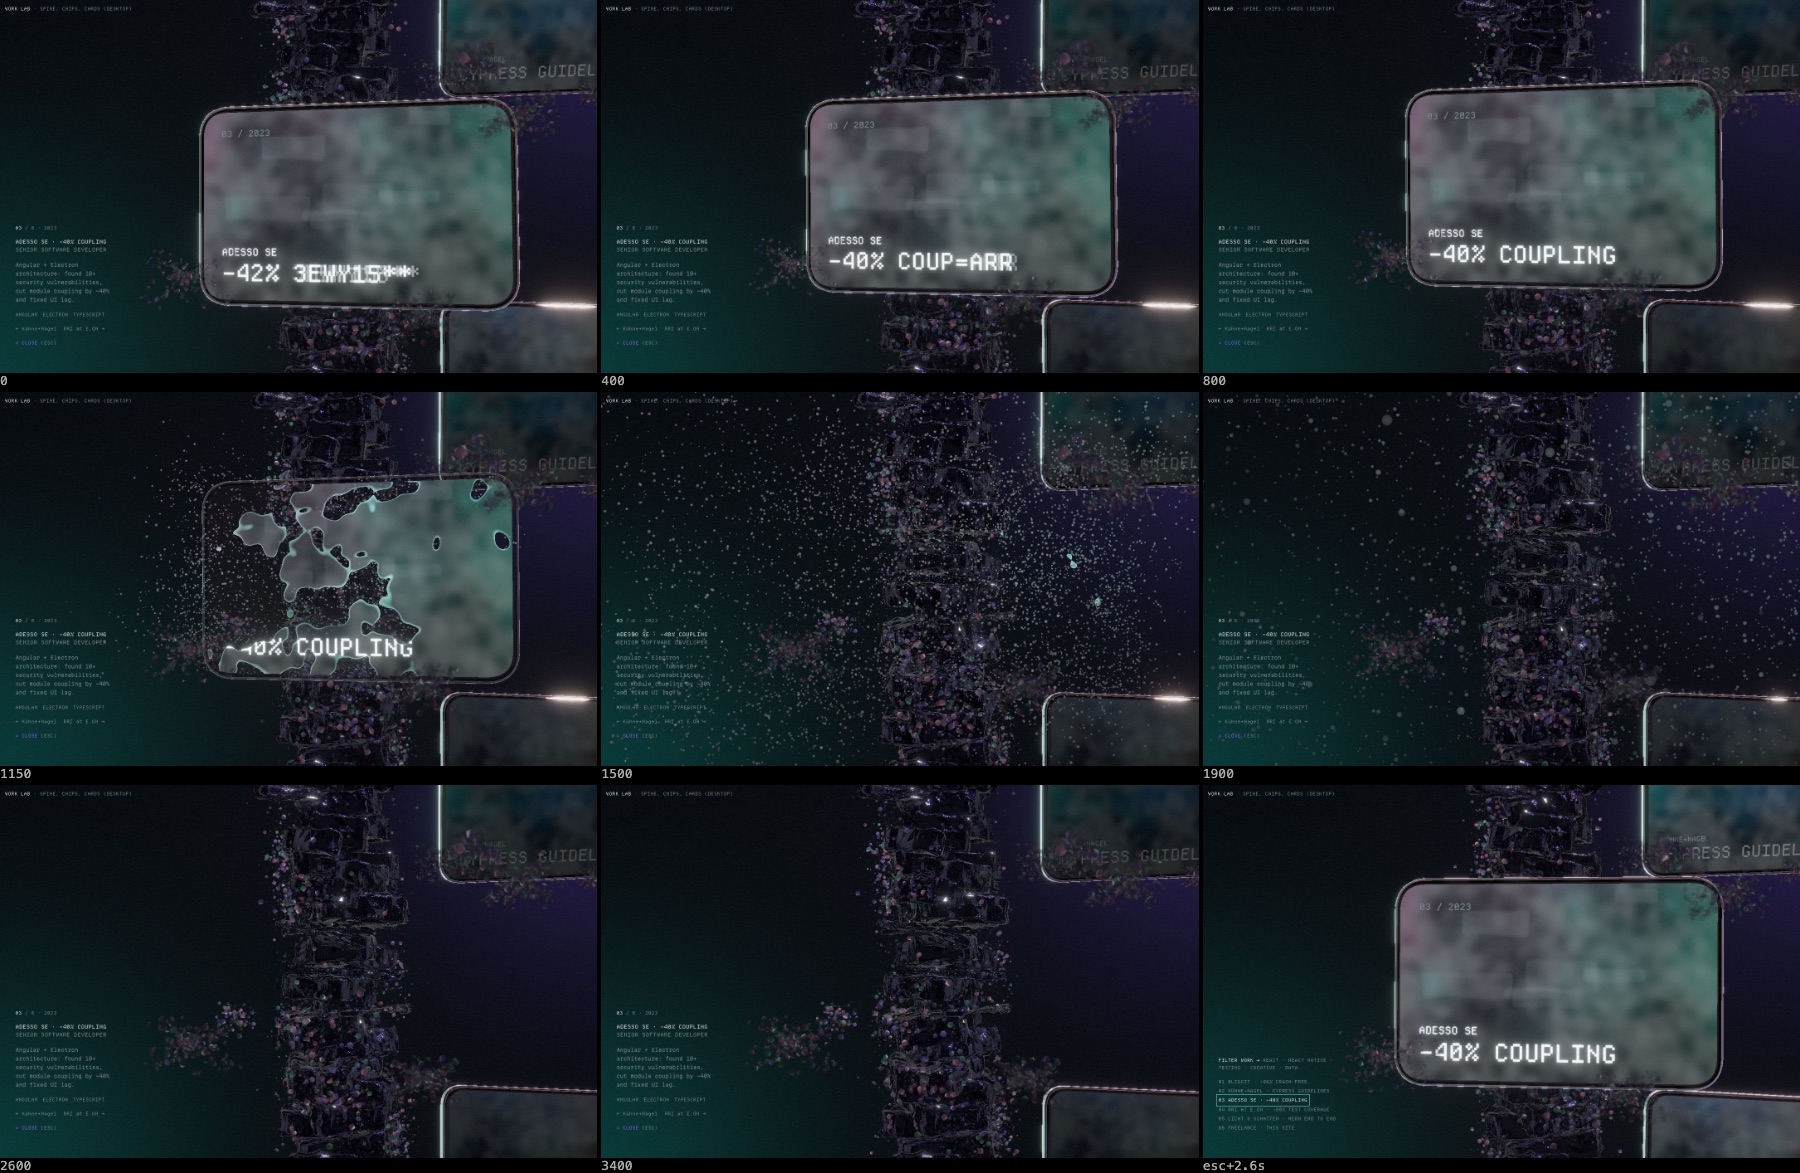
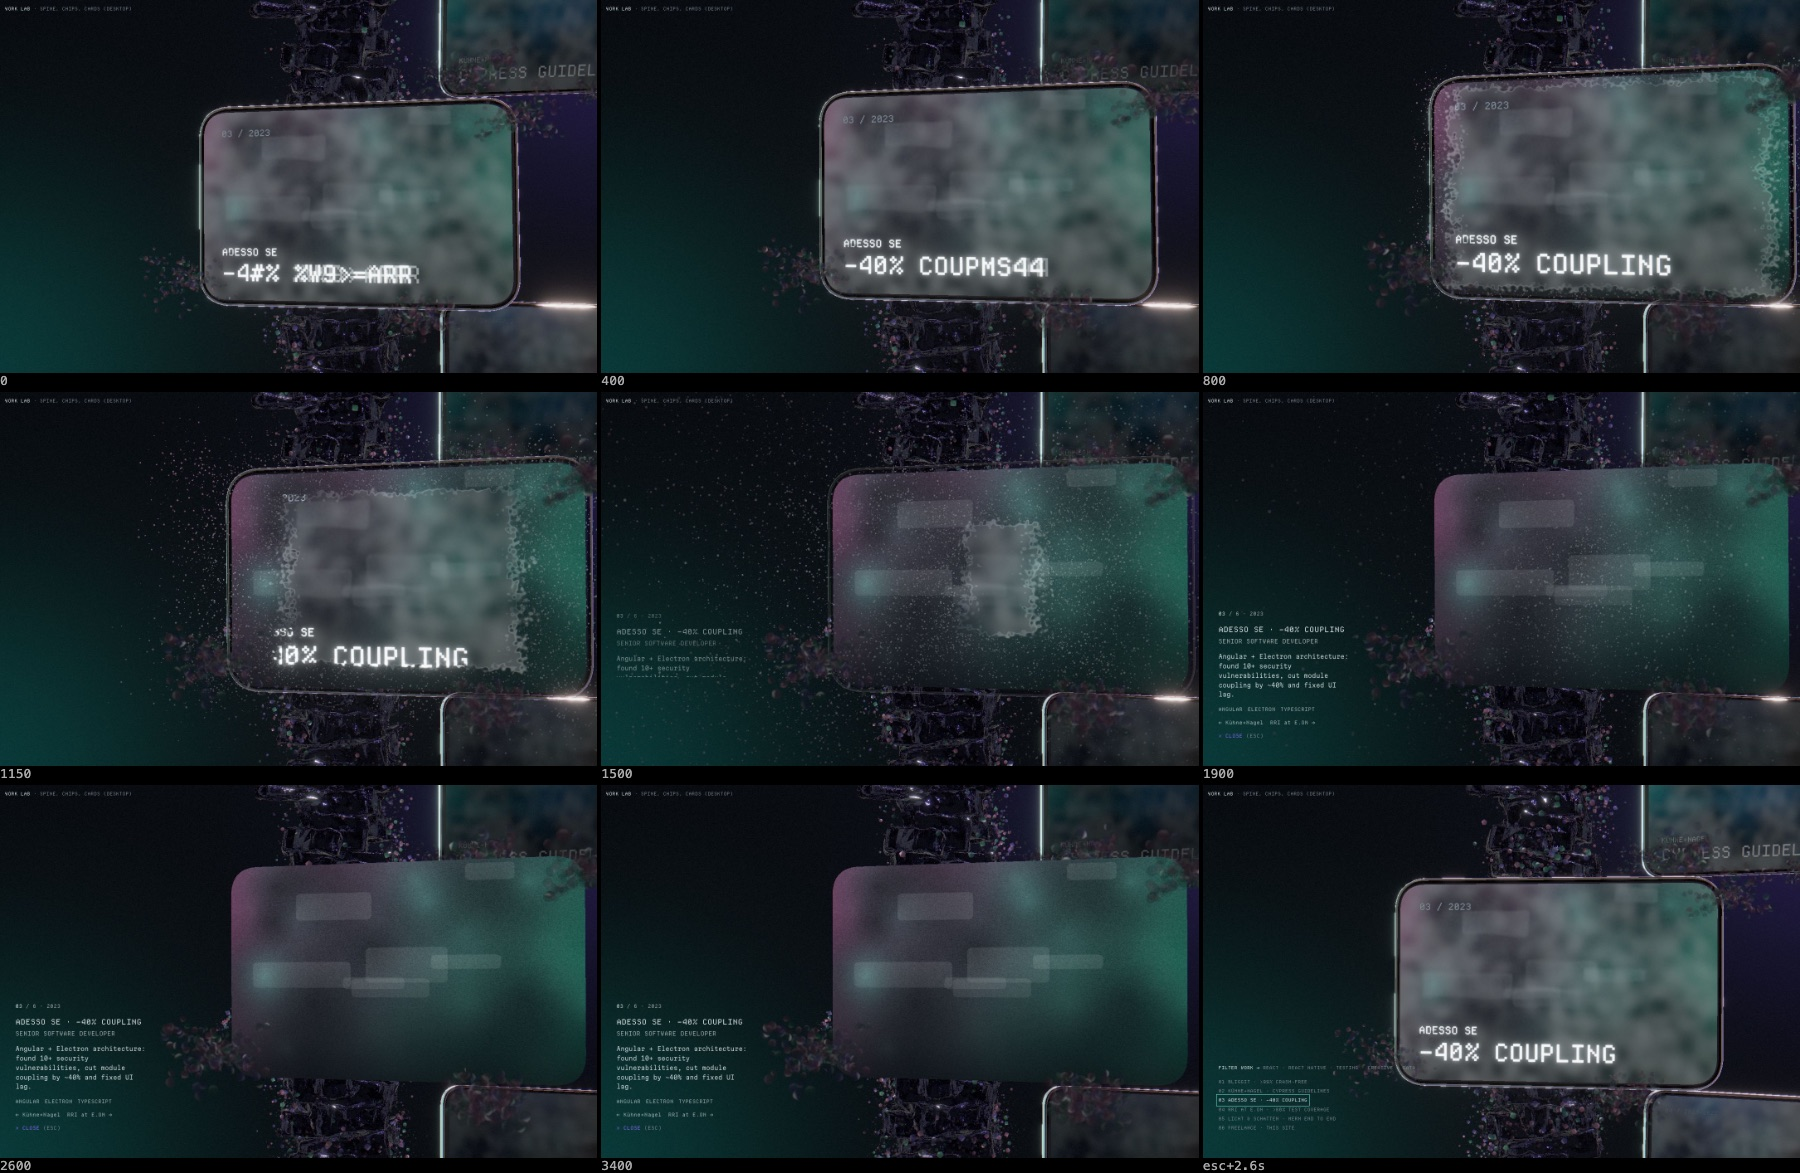
Work open state: defrost to a large sharp image, fine edge-in flakes, readable details
- Opening no longer removes the card: it flies to ~57% of the screen width, right of
  centre, and its frost clears from the edges inward behind a fine, grainy front; small
  glass flakes break off that front in the image's colours, the block glass fades.
- Details panel: larger, brighter mono type (shared with /work/<slug>).

diff --git a/src/components/canvas/work/WorkCards.tsx b/src/components/canvas/work/WorkCards.tsx
@@ -154,7 +154,7 @@ function createScreenMaterial(face: CardFace, seed: number) {
 }
 
 /** Particles a card breaks into: random spots over its face, shared by all cards. */
-const DUST_COUNT = 6000
+const DUST_COUNT = 14000
 
 function createDustGeometry() {
   const spots = new Float32Array(DUST_COUNT * 2)
@@ -350,12 +350,16 @@ function Card({ job, index, layout, clock, block, plane, dust, screen, face }: C
     if (flown > 0) {
       camera.getWorldDirection(s.forward)
       s.right.crossVectors(s.forward, s.up).normalize()
-      const fov = ((camera as PerspectiveCamera).fov * Math.PI) / 180
-      const distance = CARD.height / 0.5 / (2 * Math.tan(fov / 2))
+      // Big and sharp: ~57% of the screen width, centred right of the middle, leaving the
+      // left for the details (MOTION.md / at_08).
+      const perspective = camera as PerspectiveCamera
+      const tan = Math.tan((perspective.fov * Math.PI) / 360)
+      const distance = CARD.width / (0.57 * 2 * tan * perspective.aspect)
+      const halfWidth = distance * tan * perspective.aspect
       s.open
         .copy(camera.position)
         .addScaledVector(s.forward, distance)
-        .addScaledVector(s.right, CARD.width * 0.05)
+        .addScaledVector(s.right, halfWidth * 0.2)
       g.position.lerp(s.open, flown)
     }
 
@@ -374,6 +378,8 @@ function Card({ job, index, layout, clock, block, plane, dust, screen, face }: C
       Math.sin(t * 0.23 + index * 2.1) * TILT.drift + s.pointer.x * TILT.cursor - 0.08,
       Math.sin(t * 0.17 + index * 0.7) * 0.015,
     )
+    s.euler.x *= 1 - flown * 0.6
+    s.euler.y *= 1 - flown * 0.6
     g.quaternion.multiply(s.tilt.setFromEuler(s.euler))
     g.scale.setScalar((layout === 'column' ? COLUMN_SCALE : 1) * (1 + s.focus * 0.06 * (1 - flown)))
 
@@ -384,7 +390,8 @@ function Card({ job, index, layout, clock, block, plane, dust, screen, face }: C
     u.uBlur!.value = Math.max(side * (1 - s.focus), s.others * 0.8)
     u.uBrightness!.value = (0.8 - side * 0.2 + 0.25 * s.focus) * (1 - s.others * 0.65)
     u.uDissolve!.value = Math.min(1, s.dissolve)
-    glass.opacity = 1 - Math.min(1, s.dissolve * 1.4)
+    // The thick glass block breaks away with the frost.
+    glass.opacity = 1 - Math.min(1, s.dissolve * 1.2)
     glass.visible = glass.opacity > 0.01
     dustShader.uniforms.uDissolve!.value = s.dissolve
     dustShader.uniforms.uPointScale!.value = size.height * viewport.dpr * 0.012

diff --git a/src/components/work/JobDetail.tsx b/src/components/work/JobDetail.tsx
@@ -10,23 +10,23 @@ type Props = {
 }
 
 /**
- * A job's details in small mono type: the real content of an opened card. Shared by the
+ * A job's details in mono type, sized and lit for reading (this is what recruiters read): the real content of an opened card. Shared by the
  * detail panel over the scene and the /work/<slug> page, so both stay identical.
  */
 export function JobDetail({ job, headingId, as: Heading = 'h2' }: Props) {
   const index = jobs.indexOf(job)
   return (
     <>
-      <p className="ui text-muted">
+      <p className="ui text-xs text-text/70">
         <span className="text-text">{String(index + 1).padStart(2, '0')}</span> / {jobs.length} ·{' '}
         {job.years}
       </p>
-      <Heading id={headingId} className="ui-lg text-text">
+      <Heading id={headingId} className="ui-lg text-base text-text sm:text-lg">
         {job.company} · {job.metric}
-        <span className="block text-muted">{job.role}</span>
+        <span className="mt-1 block text-sm text-text/70">{job.role}</span>
       </Heading>
-      <p className="copy text-muted">{job.summary}</p>
-      <ul className="flex flex-wrap gap-x-3 gap-y-1 ui text-muted" aria-label="Stack">
+      <p className="copy max-w-[44ch] text-sm leading-relaxed text-text/90">{job.summary}</p>
+      <ul className="flex flex-wrap gap-x-3 gap-y-1 ui text-xs text-text/70" aria-label="Stack">
         {job.stack.map((item) => (
           <li key={item}>{item}</li>
         ))}

diff --git a/src/components/work/WorkDetail.tsx b/src/components/work/WorkDetail.tsx
@@ -49,14 +49,14 @@ export function WorkDetail() {
       aria-labelledby="work-detail-title"
       tabIndex={-1}
       key={job.slug}
-      className="detail-in flex w-full max-w-[34ch] flex-col gap-4 outline-none"
+      className="detail-in flex w-full max-w-[46ch] flex-col gap-4 outline-none"
     >
       <JobDetail job={job} headingId="work-detail-title" />
-      <nav aria-label="More work" className="flex gap-4 ui">
+      <nav aria-label="More work" className="flex gap-4 ui text-xs">
         {previous && (
           <button
             type="button"
-            className="text-muted hover:text-text"
+            className="text-text/70 hover:text-text"
             onClick={() => open(previous.slug)}
           >
             ← {previous.company}
@@ -65,14 +65,18 @@ export function WorkDetail() {
         {next && (
           <button
             type="button"
-            className="text-muted hover:text-text"
+            className="text-text/70 hover:text-text"
             onClick={() => open(next.slug)}
           >
             {next.company} →
           </button>
         )}
       </nav>
-      <button type="button" onClick={close} className="self-start ui text-violet hover:text-text">
+      <button
+        type="button"
+        onClick={close}
+        className="self-start ui text-xs text-violet hover:text-text"
+      >
         × Close <span className="text-muted">(Esc)</span>
       </button>
     </div>

diff --git a/src/components/lab/WorkLab.tsx b/src/components/lab/WorkLab.tsx
@@ -238,7 +238,7 @@ export default function WorkLab() {
       ) : (
         <>
           {canvas}
-          <div className="absolute bottom-16 left-(--margin) w-80">
+          <div className="absolute bottom-16 left-(--margin) w-[min(30rem,34vw)]">
             {opened ? <WorkDetail /> : <WorkList />}
           </div>
         </>
